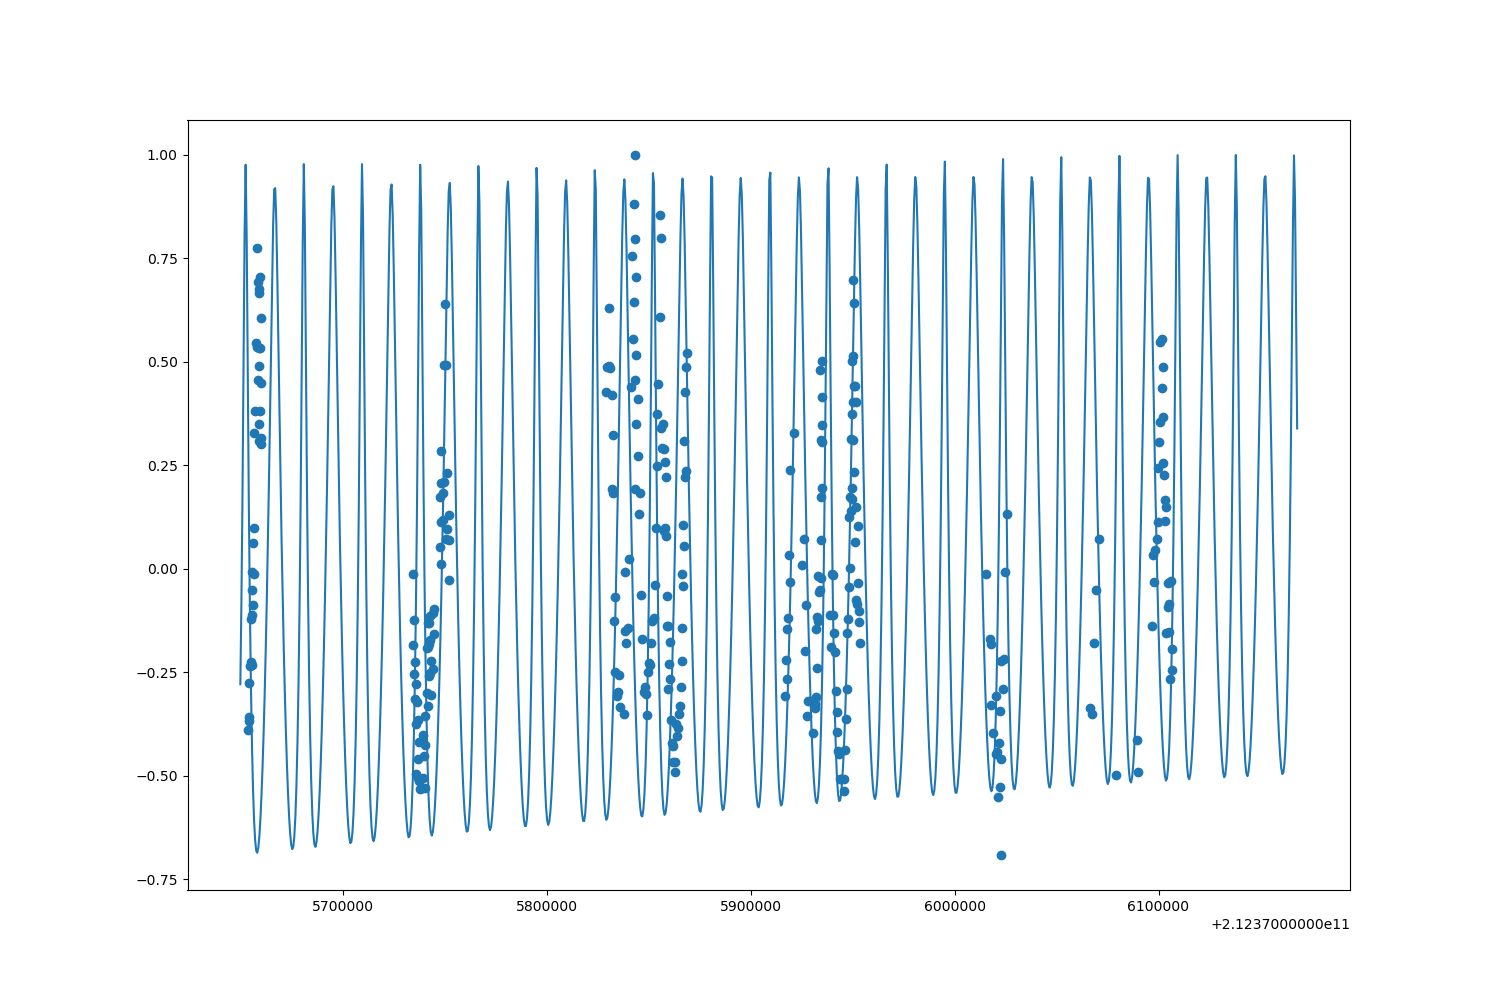
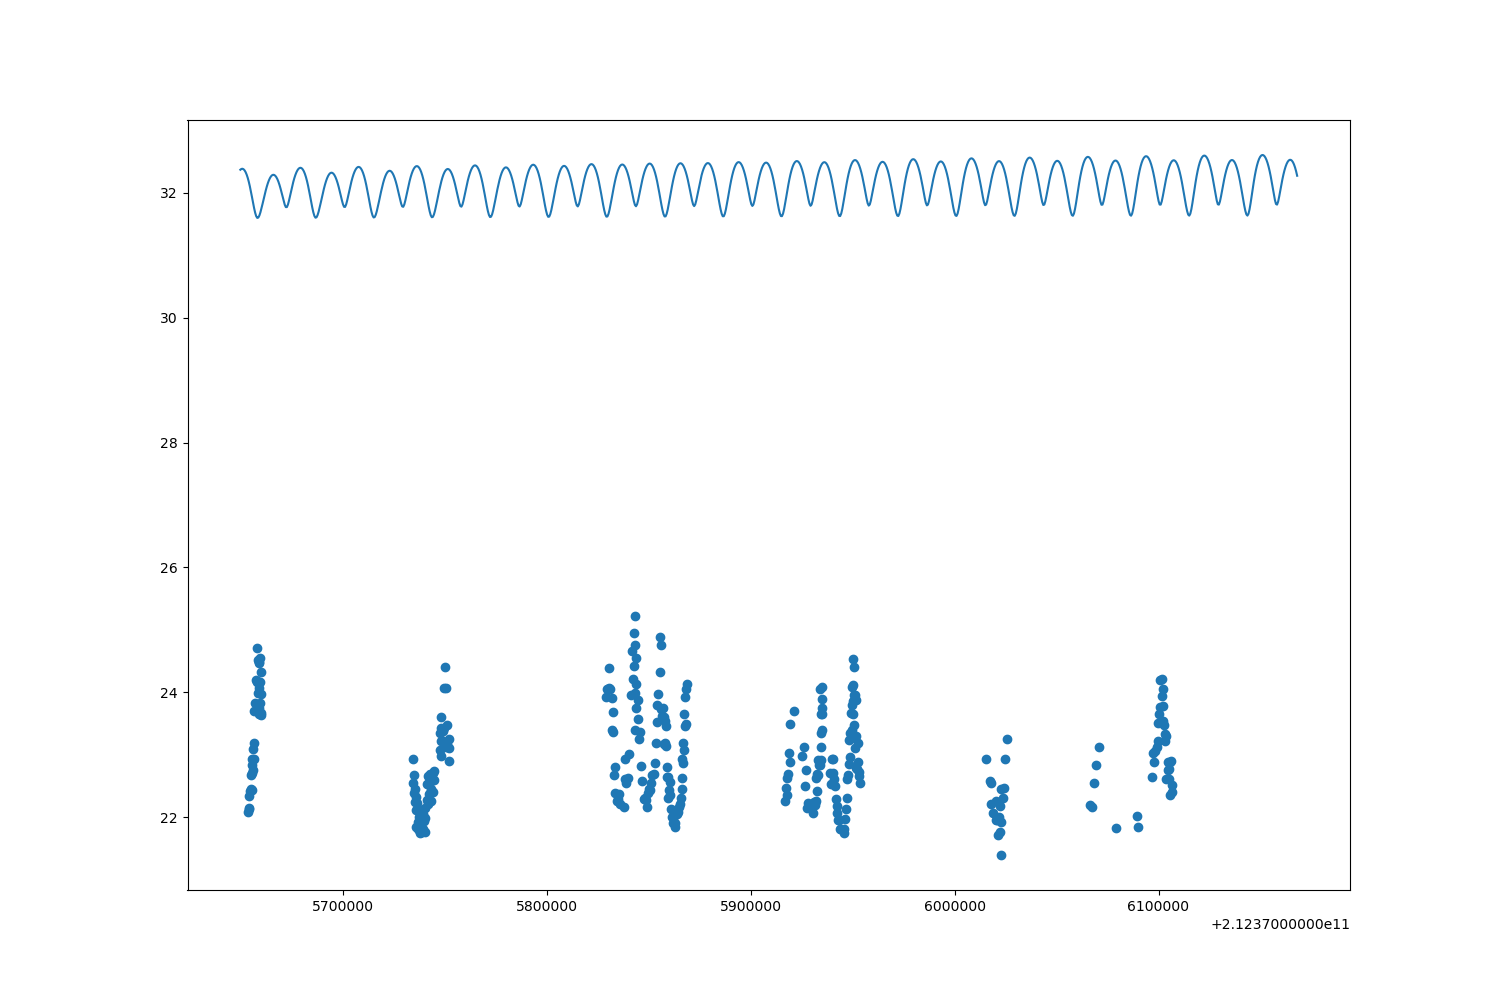
Updating MCMC sampler

diff --git a/Lightcurves/axis_finder.py b/Lightcurves/axis_finder.py
@@ -141,7 +141,7 @@ def gr_indicator(chain, gr_threshold=1.01):
     return(np.max(RGR) < gr_threshold)
 
 
-def MCMC(x0, nwalk=10, nminsteps=10**6, nconv=20, step=1, logfunc=None, args=None, convergence_func=None, conv_args=None):
+def MCMC(logfunc, x0, args=None, nwalk=10, nminsteps=10**6, nconv=20, step=1, convergence_func=None, conv_args=None):
 
     from numpy import matlib
 
@@ -207,44 +207,78 @@ def MCMC(x0, nwalk=10, nminsteps=10**6, nconv=20, step=1, logfunc=None, args=Non
 
     return(np.reshape(chain, [-1, dims]))
 
+def SSE(x, y):
+    return(np.sum(np.square(x-y)))
 
-def lightcurve(a, b, c, theta, rot=[1, 1, 0], sun=[1, 0, 0], obs=[0, 1, 0]):
-    ux, uy, uz = rot
+def MINwrapper(x, theta, phi, psi, a, b, c, alpha, beta, data):
+    betainit, delV = x[0], x[1]
 
-    sun = np.quaternion(0, *sun)
-    obs = np.quaternion(0, *obs)
+    light = lightcurve(theta, phi, psi, betainit,
+                       delV, a, b, c, alpha, beta)
 
-    q = np.quaternion(np.cos(theta/2), ux*np.sin(theta/2),
-                      uy*np.sin(theta/2), uz*np.sin(theta/2))
-    q = q/np.abs(q)
+    return(SSE(light,data))
 
-    sun = quaternion.as_float_array(np.conj(q)*sun*q)[1:]
-    obs = quaternion.as_float_array(np.conj(q)*obs*q)[1:]
 
-    C = np.zeros((3, 3))
-    C[0, 0] = 1/a**2
-    C[1, 1] = 1/b**2
-    C[2, 2] = 1/c**2
+def lightcurve(theta, phi, psi, betainit, delV, a, b, c, alpha, beta):
+    beta += betainit
 
-    Sl = np.sqrt(np.dot(sun.T, np.dot(C, sun)))
-    So = np.sqrt(np.dot(obs.T, np.dot(C, obs)))
+    rot = np.array([np.cos(beta/2), np.sin(beta/2)*np.cos(phi), np.sin(beta/2)
+                   * np.sin(phi) * np.cos(psi), np.sin(beta/2)*np.sin(phi)*np.sin(psi)]).T
+    rot = quaternion.as_quat_array(rot)
 
-    alpha = np.arccos((np.dot(sun.T, np.dot(C, obs))/(Sl*So)))
+    obs = np.array([np.cos(alpha), np.sin(alpha) *
+                   np.cos(theta), np.sin(alpha)*np.sin(theta)]).T
 
-    S = np.sqrt(Sl**2+So**2+2*Sl*So*np.cos(alpha))
+    obs = np.append(np.zeros(obs.shape[0])[:, np.newaxis], obs, axis=1)
+    obs = quaternion.as_quat_array(obs)
 
-    cosl = (Sl+So*np.cos(alpha))/S
-    sinl = (So*np.sin(alpha))/S
+    obs = rot*obs*np.conj(rot)
 
-    if sinl < 0:
-        lam = -np.arccos(cosl) % (2*np.pi)
-    else:
-        lam = np.arccos(cosl)
+    obs = quaternion.as_float_array(obs)[:, 1:]
 
-    return(a*b*c*Sl*So/S *
-           (np.cos(lam-alpha)+np.cos(lam)+np.sin(lam)*np.sin(lam-alpha) *
-            np.log(1/np.tan(lam/2)*np.cos((alpha-lam)/2))))
+    sun = np.quaternion(0, 1, 0, 0)
+    sun = rot*sun*np.conj(rot)
+    sun = quaternion.as_float_array(sun)[:, 1:]
 
+    Ss = np.sqrt(np.sum([1/a**2, 1/b**2, 1/c**2]*np.square(sun), axis=1))
+    So = np.sqrt(np.sum([1/a**2, 1/b**2, 1/c**2]*np.square(obs), axis=1))
+
+    palpha = np.arccos(
+        np.sum([1/a**2, 1/b**2, 1/c**2]*sun*obs, axis=1)/(Ss*So))
+
+    S = np.sqrt(Ss**2+So**2 + 2*Ss*So*np.cos(palpha))
+
+    cosl = (Ss+So*np.cos(palpha))/S
+    sinl = (So*np.sin(palpha))/S
+
+    lam = np.where(sinl < 0, (-np.arccos(cosl) % (2*np.pi)), (np.arccos(cosl)))
+
+    H = delV-2.5*np.log10(a*b*c*Ss*So/S*(np.cos(lam-palpha)+np.cos(lam)+np.sin(lam)
+                                         * np.sin(lam-palpha)*np.log(1/np.tan(lam/2) *
+                                                                     1/np.tan((palpha-lam)/2))))
+    return(H)
+
+
+def lnL(theta,phi,psi,a,b,c,alpha,beta,data,var):
+    from scipy.optimize import minimize
+    args=(theta,phi,psi,a,b,c,alpha,beta,data)
+
+    opt=minimize(MINwrapper,np.array([np.pi/2,30]),args=(theta,phi,psi,a,b,c,alpha,beta,data),bounds=[(0,np.pi),(20,40)]).x
+
+    light=lightcurve(theta, phi, psi, opt[0], opt[1], a, b, c, alpha, beta)
+
+    return(-0.5*(np.sum((light-data)**2/var)+2*np.pi*np.sum(var)))
+
+def MCMCwrapper(x,args):
+    a, b, c, alpha, beta, data, var = args
+    outputs=np.zeros(x.shape[0])
+
+    for i,vec in enumerate(x):
+        theta=vec[0];phi=vec[1];psi=vec[2];
+
+        outputs[i]=lnL(theta,phi,psi,a,b,c,alpha,beta,data,var)
+
+    return(outputs)
 
 belton=pd.read_csv("BeltonLightcurves.csv")
 indcut=335
@@ -255,35 +289,18 @@ beltime=belton['Time'].to_numpy()
 belmag=belton['Magnitude'].to_numpy()
 belsig=belton['msig'].to_numpy()
 
-belmagnorm=belmag-np.mean(belmag)
-belmagnorm=belmagnorm/np.max(np.abs(belmagnorm))
-
 astro=pd.read_csv("2017-10-25_horizons_results.csv")
 
 asttime=astro['Time'].to_numpy()
-sundist=astro['SunDist'].to_numpy()
-earthdist=astro['EarthDist'].to_numpy()
 phase=astro['Phase'].to_numpy()
 
-times=np.linspace(asttime[0],asttime[-1],1000)
-sundist=UnivariateSpline(asttime,sundist)
-earthdist=UnivariateSpline(asttime,earthdist)
 phase=UnivariateSpline(asttime,phase)
 
 period = 7.937*3600  # seconds
-curve=[]
-for t in times:
-    theta=2*np.pi*(t%period)/period
+alpha=phase(beltime)
+beta=2*np.pi*(beltime/period)%period
 
-    alpha=phase(t)
-    light=lightcurve(115,111,19,theta,obs=[np.cos(alpha),np.sin(alpha),0])
-    #light*=2e30/(sundist(t)*earthdist(t))**2
-    curve.append(-2.5*np.log10(light))
+args=(115,111,19,alpha,beta,belmag,np.square(belsig))
 
-curvenorm=curve-np.mean(curve)
-curvenorm=curvenorm/np.max(np.abs(curvenorm))
-
-plt.figure(figsize=(15,10))
-plt.scatter(beltime,belmagnorm)
-plt.plot(times,curvenorm)
-plt.savefig("test.png")
+outputs=MCMC(MCMCwrapper,x0=[np.pi,np.pi/2,np.pi],args=args,convergence_func=gr_indicator,nminsteps=1000)
+print(outputs.shape)

diff --git a/Lightcurves/development_board.py b/Lightcurves/development_board.py
@@ -1,0 +1,103 @@
+# -*- coding: utf-8 -*-
+"""
+Created on Tue Jul 26 11:01:27 2022
+
+@author: astertaylor
+"""
+import numpy as np
+import pandas as pd
+import quadpy
+import quaternion
+from scipy.interpolate import UnivariateSpline
+import matplotlib.pyplot as plt
+
+def SSE(x, y):
+    return(np.sum(np.square(x-y)))
+
+def MINwrapper(x, theta, phi, psi, a, b, c, alpha, beta, data):
+    betainit, delV = x[0], x[1]
+
+    light = lightcurve(theta, phi, psi, betainit,
+                       delV, a, b, c, alpha, beta)
+
+
+    return(SSE(light,data))
+
+
+def lightcurve(theta, phi, psi, betainit, delV, a, b, c, alpha, beta):
+    beta += betainit
+
+    rot = np.array([np.cos(beta/2), np.sin(beta/2)*np.cos(phi), np.sin(beta/2)
+                   * np.sin(phi) * np.cos(psi), np.sin(beta/2)*np.sin(phi)*np.sin(psi)]).T
+    rot = quaternion.as_quat_array(rot)
+
+    obs = np.array([np.cos(alpha), np.sin(alpha) *
+                   np.cos(theta), np.sin(alpha)*np.sin(theta)]).T
+
+    obs = np.append(np.zeros(obs.shape[0])[:, np.newaxis], obs, axis=1)
+    obs = quaternion.as_quat_array(obs)
+
+    obs = rot*obs*np.conj(rot)
+
+    obs = quaternion.as_float_array(obs)[:, 1:]
+
+    sun = np.quaternion(0, 1, 0, 0)
+    sun = rot*sun*np.conj(rot)
+    sun = quaternion.as_float_array(sun)[:, 1:]
+
+    Ss = np.sqrt(np.sum([1/a**2, 1/b**2, 1/c**2]*np.square(sun), axis=1))
+    So = np.sqrt(np.sum([1/a**2, 1/b**2, 1/c**2]*np.square(obs), axis=1))
+
+    palpha = np.arccos(
+        np.sum([1/a**2, 1/b**2, 1/c**2]*sun*obs, axis=1)/(Ss*So))
+
+    S = np.sqrt(Ss**2+So**2 + 2*Ss*So*np.cos(palpha))
+
+    cosl = (Ss+So*np.cos(palpha))/S
+    sinl = (So*np.sin(palpha))/S
+
+    lam = np.where(sinl < 0, (-np.arccos(cosl) % (2*np.pi)), (np.arccos(cosl)))
+
+    H = delV-2.5*np.log10(a*b*c*Ss*So/S*(np.cos(lam-palpha)+np.cos(lam)+np.sin(lam)
+                                         * np.sin(lam-palpha)*np.log(1/np.tan(lam/2) *
+                                                                     1/np.tan((palpha-lam)/2))))
+    return(H)
+
+
+def lnL(theta,phi,psi,a,b,c,alpha,beta,data,var):
+    from scipy.optimize import minimize
+    args=(theta,phi,psi,a,b,c,alpha,beta,data)
+
+    opt=minimize(MINwrapper,np.array([np.pi/2,30]),args=(theta,phi,psi,a,b,c,alpha,beta,data),bounds=[(0,np.pi),(20,40)]).x
+
+    light=lightcurve(theta, phi, psi, opt[0], opt[1], a, b, c, alpha, beta)
+
+    return(-0.5*(np.sum((light-data)**2/var)+2*np.pi*np.sum(var)))
+
+def MCMCwrapper(x,args):
+    a, b, c, alpha, beta, data, var = args
+    outputs=np.zeros(x.shape[0])
+
+    for i,vec in enumerate(x):
+        theta=vec[0];phi=vec[1];psi=vec[2];
+
+        outputs[i]=lnL(theta,phi,psi,a,b,c,alpha,beta,data,var)
+
+    return(outputs)
+
+period=7.397*3600
+
+belton=pd.read_csv("BeltonLightcurves.csv")
+astro=pd.read_csv("2017-10-25_horizons_results.csv")
+
+alpha=UnivariateSpline(astro['Time'],astro['Phase'])
+times=belton['Time']
+data=belton['Magnitude']
+
+alpha=alpha(times)
+
+beta=2*np.pi*((times/period)%period)
+
+args=115,115,19,alpha,beta,data,np.ones_like(data)
+x=np.array([[0.1,0.2,0.3],[0.4,0.5,0.6]])
+print(MCMCwrapper(x,args))
